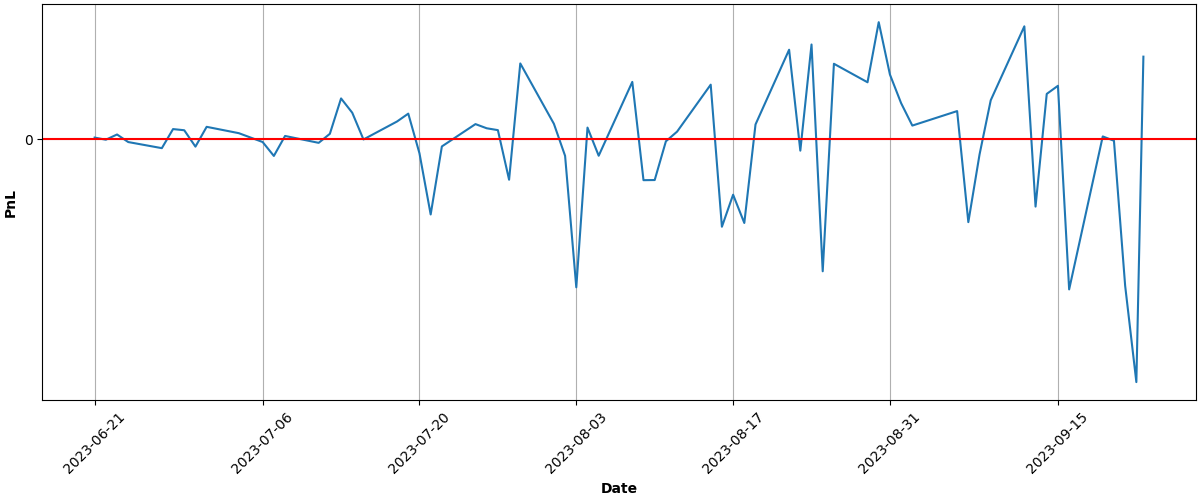
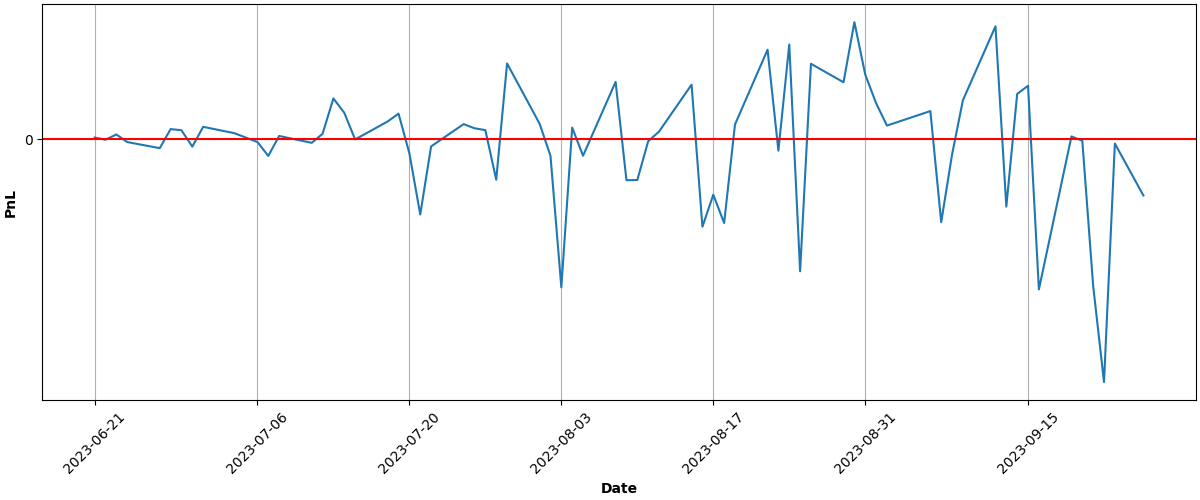
Automated Buy At Mon Sep 25 15:05:04 UTC 2023 Run ID 6301233332

diff --git a/README.md b/README.md
@@ -68,9 +68,9 @@ Results
 
 | Asset | Average Price | Current Price | ROI | 📈 |
 | --- | --- | --- | --- | --- |
-| FNGU | $180.607841483 | $154.82 | -14.28% | &#128308;&#128546; |
-| SVIX | $28.531585714 | $29.35 | 2.87% | &#128994;&#128515; |
-| **Total** |  |  | **-5.08%** | &#128308;&#128557; |
+| FNGU | $180.062376423 | $148.74 | -17.40% | &#128308;&#128546; |
+| SVIX | $28.531585714 | $27.759 | -2.71% | &#128308;&#128546; |
+| **Total** |  |  | **-9.57%** | &#128308;&#128557; |
 
 ### PnL over time (calculations may not be accurate):
 
@@ -81,6 +81,6 @@ Results
 ---
 
 
-Updated at 2023-09-22 15:05:05
+Updated at 2023-09-25 15:05:28
 
 
